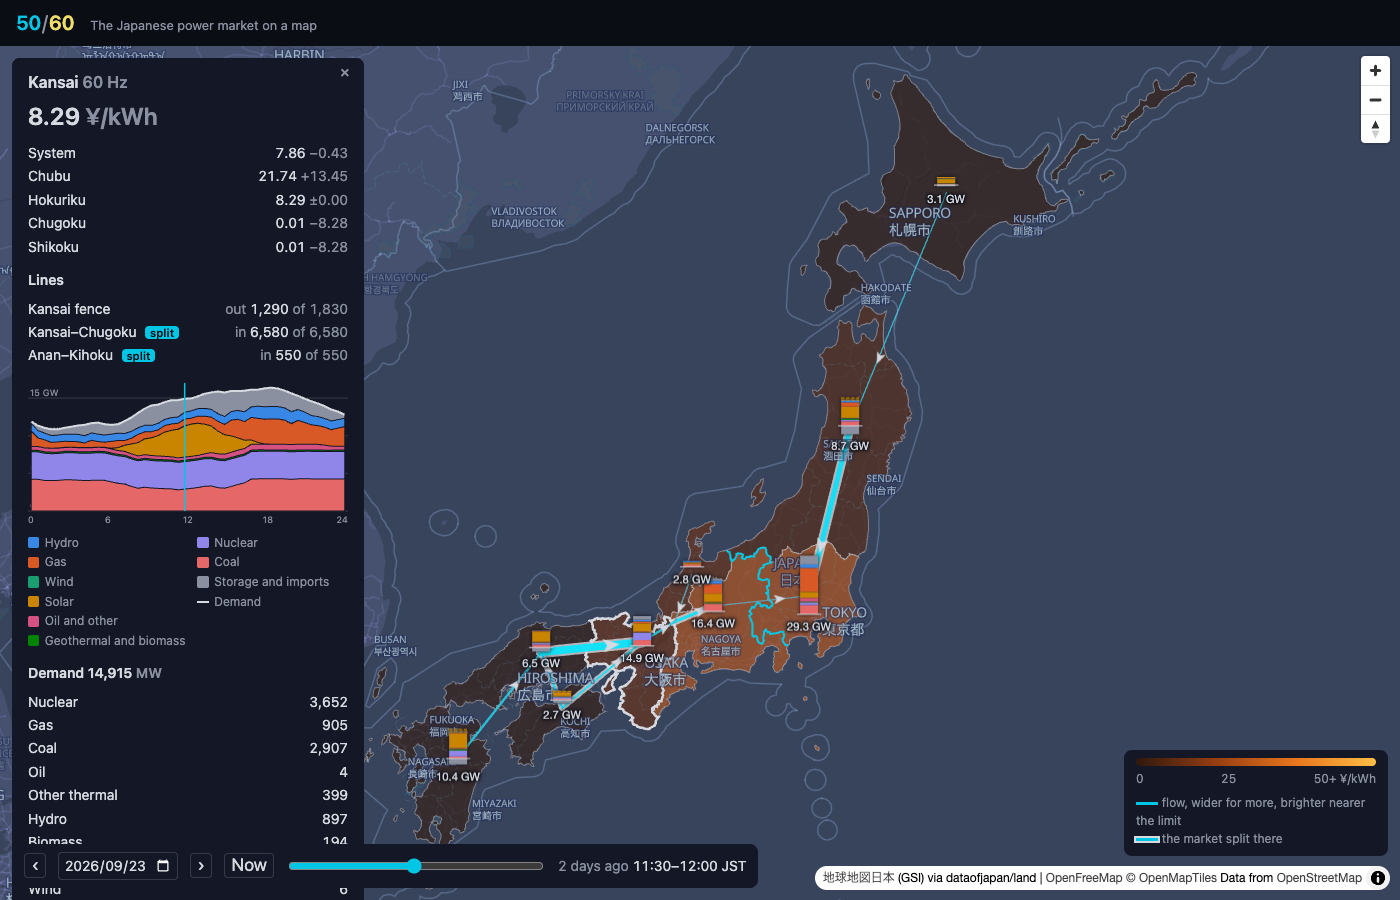
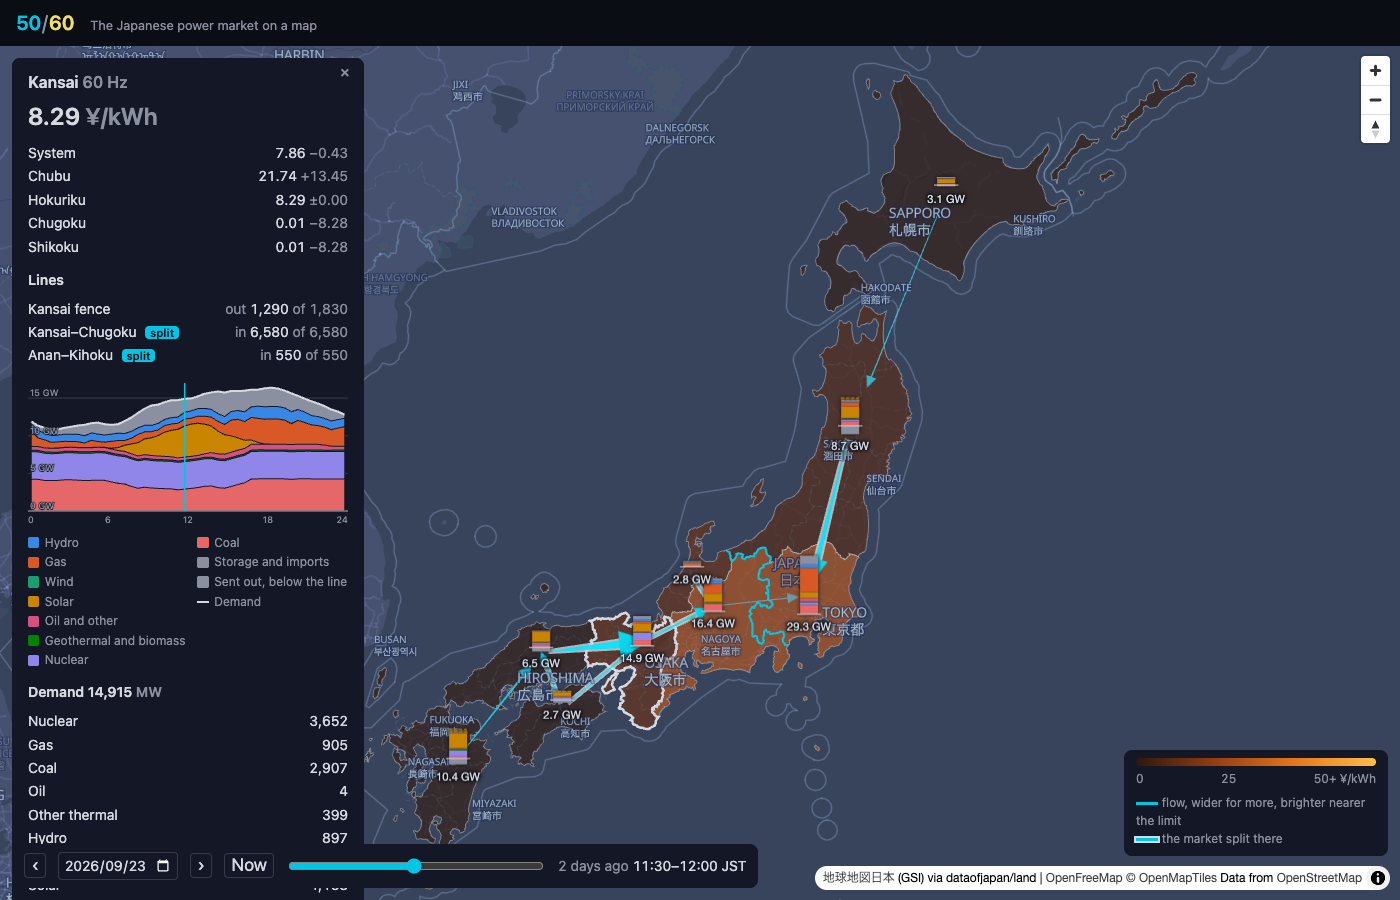
The M3 captures retaken with the tapered arrows and the triangle resolved

diff --git a/docs/screenshots/README.md b/docs/screenshots/README.md
@@ -6,7 +6,7 @@ One capture per milestone, taken with [`scripts/screenshot.mjs`](../../scripts/s
 
 ![The flows](003-flows.png)
 
-The holiday noon of 2026-09-23 again, 11:30 to 12:00, with the interconnectors drawn from OCCTO's day-ahead forecast: an arrow along each line the way the power goes, a pixel wide plus one per gigawatt, brighter the nearer the flow is to the line's limit, and a white rim where the day-ahead market split across it. Kansai is picked: both Kansai–Chugoku circuits and the Anan–Kihoku line from Shikoku come in full and rimmed, the Kansai fence sends 1,290 MW on toward Chubu, and the readout lists each line's flow in or out against its limit with the split marked. The Tohoku trunk into Tokyo is full and rimmed too, while the converters carry a trickle west to east.
+The holiday noon of 2026-09-23 again, 11:30 to 12:00, with the interconnectors drawn from OCCTO's day-ahead forecast: an arrow along each line the way the power goes, its shaft tapering from a hair at the source to a pixel plus one per gigawatt at the head, brighter the nearer the flow is to the line's limit, and a white rim where the day-ahead market split across it. Kansai is picked: both Kansai–Chugoku circuits and the Anan–Kihoku line from Shikoku come in full and rimmed, 1,290 MW go on from Kansai to Chubu and 539 MW from Hokuriku, resolved from OCCTO's three fences around that triangle, and the readout lists each line's flow in or out against its limit with the split marked. The Tohoku trunk into Tokyo is full and rimmed too, while the converters carry a trickle west to east.
 
 <img src="003-flows-phone.png" alt="The flows, on a phone" width="260">
 
